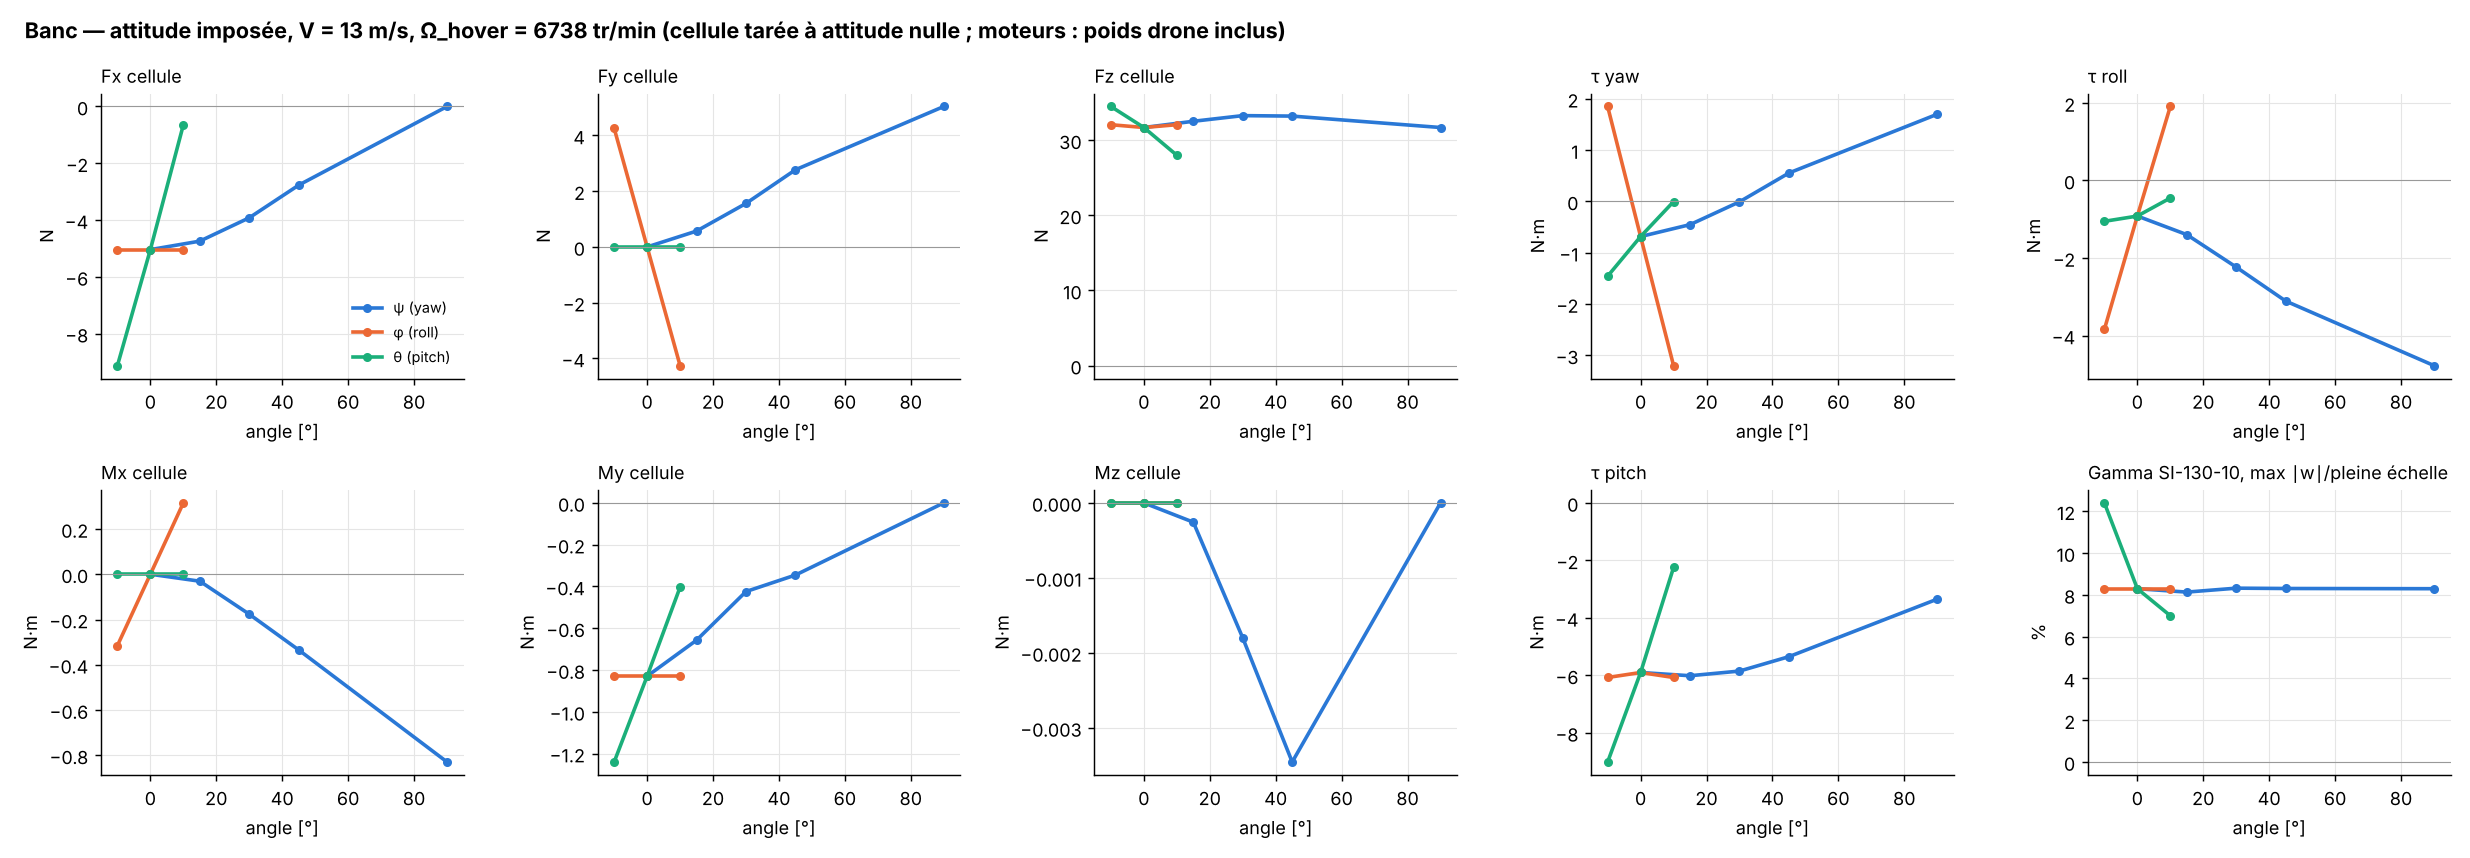
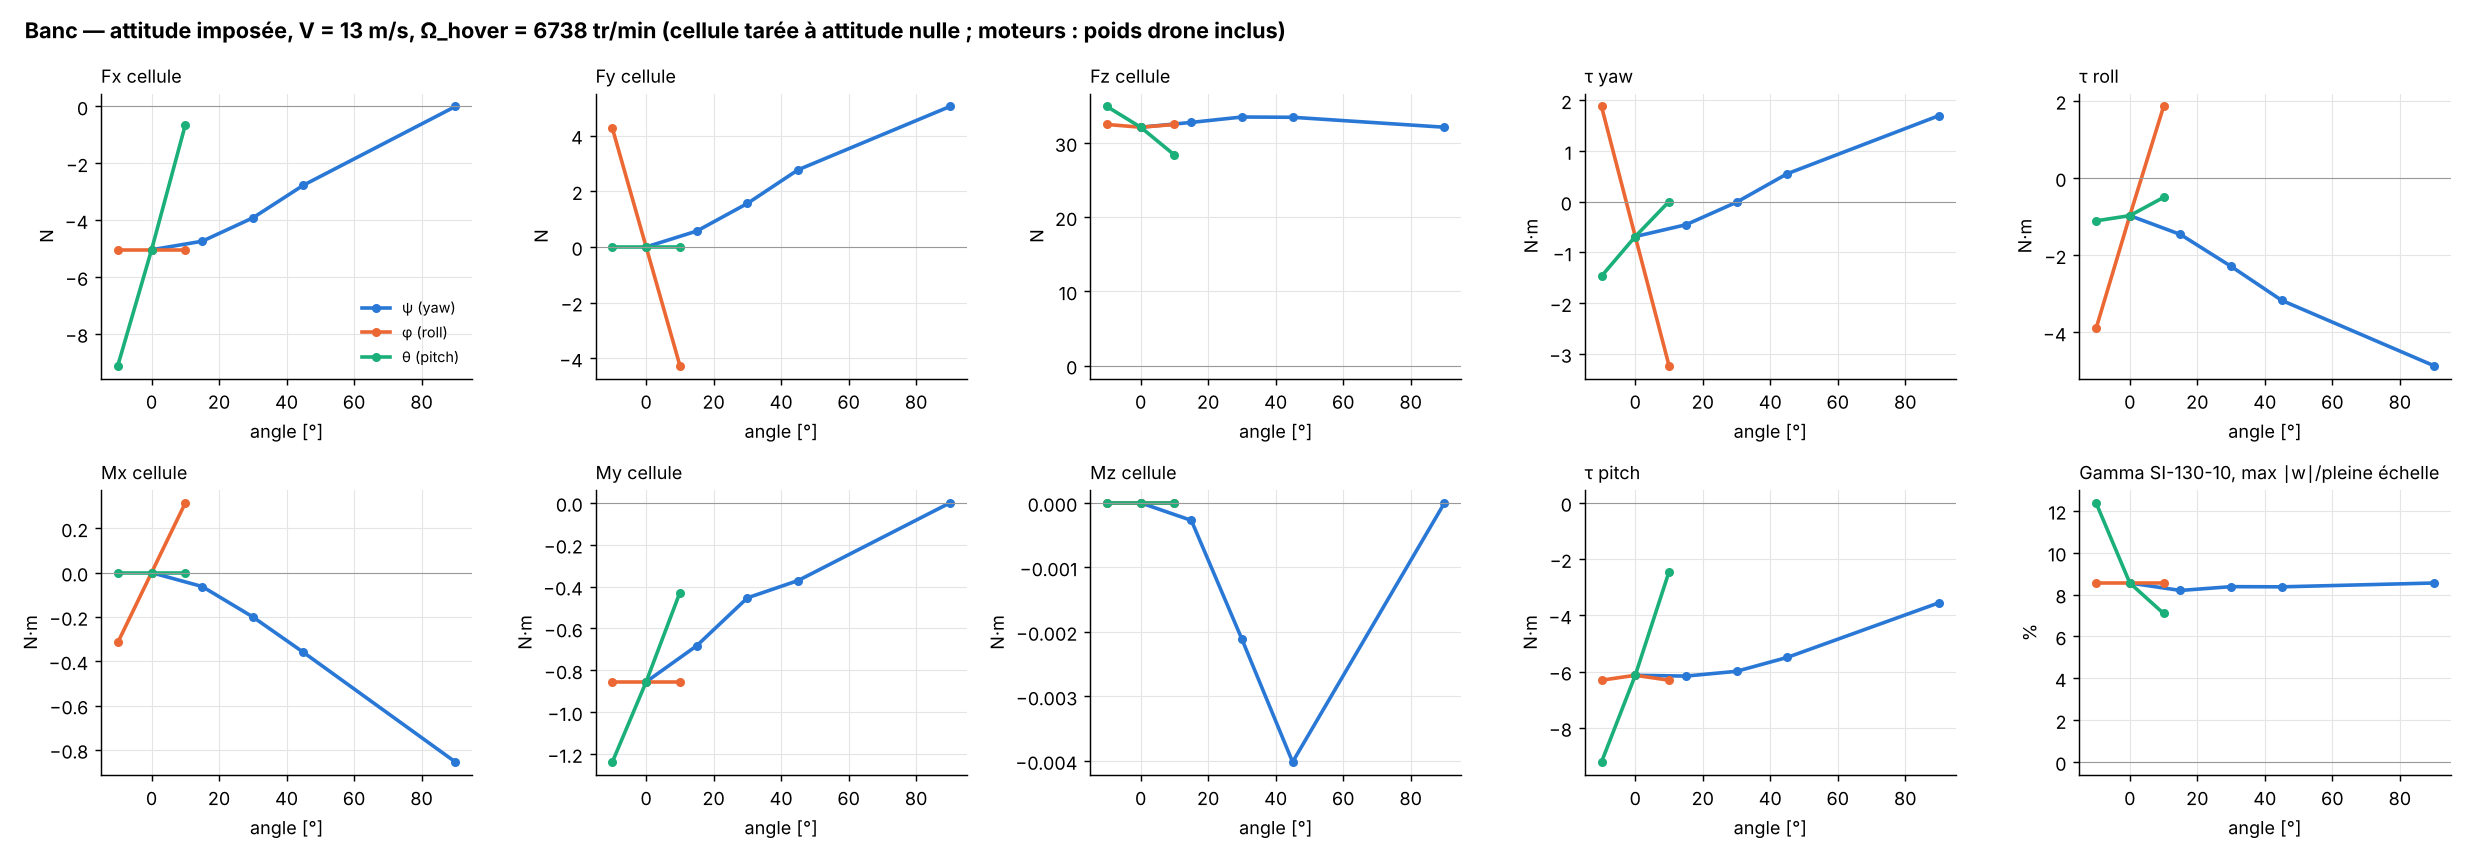
Wake: include upwash from all other rotors (Physics review #10)
Claude-Session: https://claude.ai/code/session_01CcFw68i3JE8M7YFdoZAnkQ

diff --git a/bench/wake.py b/bench/wake.py
@@ -77,7 +77,7 @@ def dv_rear(b, T_front, V, alpha=0.0):
 
 
 def dv_rotors(b, T, P, V, alpha, beta):
-    """E31 : Δv_i = Σ_j η(χ_j, X_ij, Y_ij)·v₀_j sur les rotors j amont (X_ij > 0) ; P : moyeux (n, 2) [m].
+    """E31 : Δv_i = Σ_j η(χ_j, X_ij, Y_ij)·v₀_j sur tous les rotors j ≠ i (amont : downwash, côté/aval-amont : upwash) ; P : moyeux (n, 2) [m].
     (X, Y) : position de i dans le repère du sillage de j, X le long de l'air dans le plan (β : sens d'avance)."""
     e = -np.array([np.cos(beta), np.sin(beta)])             # sens de l'air dans le plan
     n = np.array([-e[1], e[0]])
@@ -88,7 +88,7 @@ def dv_rotors(b, T, P, V, alpha, beta):
         v0, chi = front_wake(Tj, V, alpha, b.A)
         for i in range(len(P)):
             X, Y = (P[i] - P[j]) @ e / b.R, (P[i] - P[j]) @ n / b.R
-            if X > 1e-6:                                    # sillage symétrique en Y
+            if i != j:                                      # sillage symétrique en Y
                 dv[i] += eta(round(float(chi), 4), round(X, 3), round(abs(Y), 3)) * v0
     return dv
 

diff --git a/docs/equations.md b/docs/equations.md
@@ -102,7 +102,7 @@ Chaîne base → yaw (z) → roll (x) → pitch (y) → drone. ψ > 0 nez à gau
 | E28 | $\mathbf{R} = R_z(\psi)\,R_x(\varphi)\,R_y(\theta)$ ; $\mathbf{v}_a = \mathbf{R}^T(-V,0,0)^T$ ; $\mathbf{W} = \mathbf{R}^T(0,0,-mg)^T$ | On applique les rotations dans l'ordre des moteurs, puis on projette le vent et le poids du monde dans le repère du drone. |
 | E29 | $\mu = \dfrac{\sqrt{v_{a,x}^2+v_{a,y}^2}}{\Omega R}$, $\lambda_c = \dfrac{-v_{a,z}}{\Omega R}$, $\alpha_r = \operatorname{atan2}\!\left(-v_{a,z},\ \sqrt{v_{a,x}^2+v_{a,y}^2}\right)$ | Un rotor axisymétrique ne voit que deux nombres : la vitesse dans son plan et la vitesse qui le traverse vers le bas. |
 | E30 | $\beta_r = \operatorname{atan2}(-v_{a,y}, -v_{a,x})$ ; $(\mathbf{F},\mathbf{M}_{moyeu}) = R_z(\beta_r)\,\big((-H,\ sY,\ T),\ (-sM_r,\ M_p,\ -sQ)\big)$ | On calcule le rotor dans son repère vent, puis on fait tourner H, Y et les moments de moyeu de β_r, la direction d'avance dans le plan ; s garde son rôle. |
-| E31 | $\Delta v_i = \displaystyle\sum_{j:\,X_{ij}>0} \eta\!\left(\chi_j, X_{ij}, \lvert Y_{ij}\rvert\right) v_{0,j}$, avec $X_{ij} = \dfrac{(\mathbf{p}_i-\mathbf{p}_j)\cdot\mathbf{e}}{R}$, $Y_{ij} = \dfrac{(\mathbf{p}_i-\mathbf{p}_j)\cdot\mathbf{n}}{R}$ | Chaque rotor reçoit la somme des sillages des rotors en amont, évalués à sa position le long du vent (X) et en travers (Y). Les rotors en aval ne comptent pas. |
+| E31 | $\Delta v_i = \displaystyle\sum_{j\neq i} \eta\!\left(\chi_j, X_{ij}, \lvert Y_{ij}\rvert\right) v_{0,j}$, avec $X_{ij} = \dfrac{(\mathbf{p}_i-\mathbf{p}_j)\cdot\mathbf{e}}{R}$, $Y_{ij} = \dfrac{(\mathbf{p}_i-\mathbf{p}_j)\cdot\mathbf{n}}{R}$ | Chaque rotor reçoit la somme des champs induits par tous les autres : un downwash s'il est dans un sillage ($\eta > 0$), un upwash sur le côté ou en amont ($\eta < 0$). La superposition est linéaire (Biot-Savart). |
 | E32 | $\tau_j = (Q_j\mathbf{u}_j)\cdot(\mathbf{M}_O + \mathbf{r}_j\times\mathbf{F})$, $Q_{pitch}=I$, $Q_{roll}=R_y^T(\theta)$, $Q_{yaw}=(R_xR_y)^T$ ; $\mathbf{r}_{roll} = \mathbf{r}_{pitch} + Q_{roll}(\mathbf{r}^0_{roll}-\mathbf{r}^0_{pitch})$, $\mathbf{r}_{yaw} = \mathbf{r}_{roll} + Q_{yaw}(\mathbf{r}^0_{yaw}-\mathbf{r}^0_{roll})$ | E27 à attitude quelconque : chaque axe moteur et son bras de levier tournent avec l'étage qui le porte, puis on les ramène dans le repère du drone. |
 
 Contrôles : att = (0, 0, α) redonne l'ancien `wrench` à 1.4e-14 près. À ψ = 0, le roulis φ n'agit que sur le poids, car l'axe de roulis est aligné avec le vent. η(χ, X, Y) est pair en Y (vérifié), et vaut 0 hors du tube à χ = 0.

diff --git a/team/BOARD.md b/team/BOARD.md
@@ -50,3 +50,8 @@ Sillage E31 (amont seul, η(X, ∣Y∣), pair en Y vérifié) : à ψ = 0, l'eff
 13 m/s, 6738 tr/min, cellule tarée : ψ 0→90° fait tourner (Fx, My) = (−5.0, −0.83) vers (Fy, Mx) = (5.0, −0.83), et Mz < 0.004 N·m. Pour φ = ±10°, seul le poids agit (Fy = ∓4.26 N). Pour θ = −10/+10° : Fx = −9.1/−0.65 N, My = −1.24/−0.40 N·m, τ_pitch = −9.0/−2.3 N·m.
 Gamma SI-130-10 : au plus 12.4 % (My, θ = −10°), 8.3 % sinon. τ_roll atteint −4.8 N·m à ψ = 90°, τ_yaw +1.9/−3.2 N·m à φ = ∓10°.
 → PHY : vérifier les signes β_r et E32 (bras des étages), et la superposition linéaire des sillages (sillage rigide, un seul passage, T non perturbé).
+[PHY] #10 REJETE (E31 seul ; E28–E30, E32 VERIFIE) — E28 : R = Rz Rx Ry intrinsèque correct ; ψ = 90° → v_a = (0, +V, 0), vent venant de la droite, β_r = −90° ; φ = 10° → W = (0, −mg sinφ, −mg cosφ), Fy = −4.26, Mx = +0.315 = −h_g W_y, ΔFz = +0.37 vérifiés. E30 : miroir CW fait dans le repère vent (Y, M_r, Q pseudo-vecteurs) puis R_z(β_r), correct ; ψ 0→90° : (Fx, My) = (−4.36, −0.777) → (Fy, Mx) = (+4.36, −0.777), exact à 1e-16 (wake=True, analytique).
+E32 : Q_roll = R_y^T, Q_yaw = (R_xR_y)^T et bras r_j = O − P_j chaînés correctement ; poids non taré pour les moteurs (attitude.py), OK.
+E31 : (X, Y) et parité en Y corrects ; superposition linéaire légitime (Biot–Savart linéaire, sillage rigide prescrit, Heyson & Katzoff, NACA R-1319, 1957 ; pas de réf. trouvée pour le multirotor). Mais le filtre X > 0 est incohérent : on garde l'upwash aval (η(2.5, 2.5) = −0.105) et on ignore l'upwash latéral/amont du même ordre (η(0, 3.54) = −0.040, η(−3.54, 0) = −0.021). Sommer sur tous les j ≠ i à 13 m/s : ψ = 0 → Δv = (−0.34, 1.37, −0.34, 1.37) au lieu de (0, 1.55, 0, 1.55) ; ψ = 45° → rotors 1, 3, 4 : −0.28/−0.56/−0.56 au lieu de 0/−0.36/−0.36.
+→ INN : retirer le filtre `X > 1e-6` dans `wake.dv_rotors` (garder j ≠ i), corriger le texte E31 et relancer attitude.py. Code non modifié (choix de modèle, pas une erreur certaine).
+[ORCH] #10 — Arbitrage : correction PHY appliquée. Le filtre X > 0 est retiré ; E31 somme maintenant sur tous les j ≠ i (upwash inclus). Δv à ψ = 0 : (−0.34, 1.37, −0.34, 1.37) m/s, conforme à PHY. attitude.py relancé.
